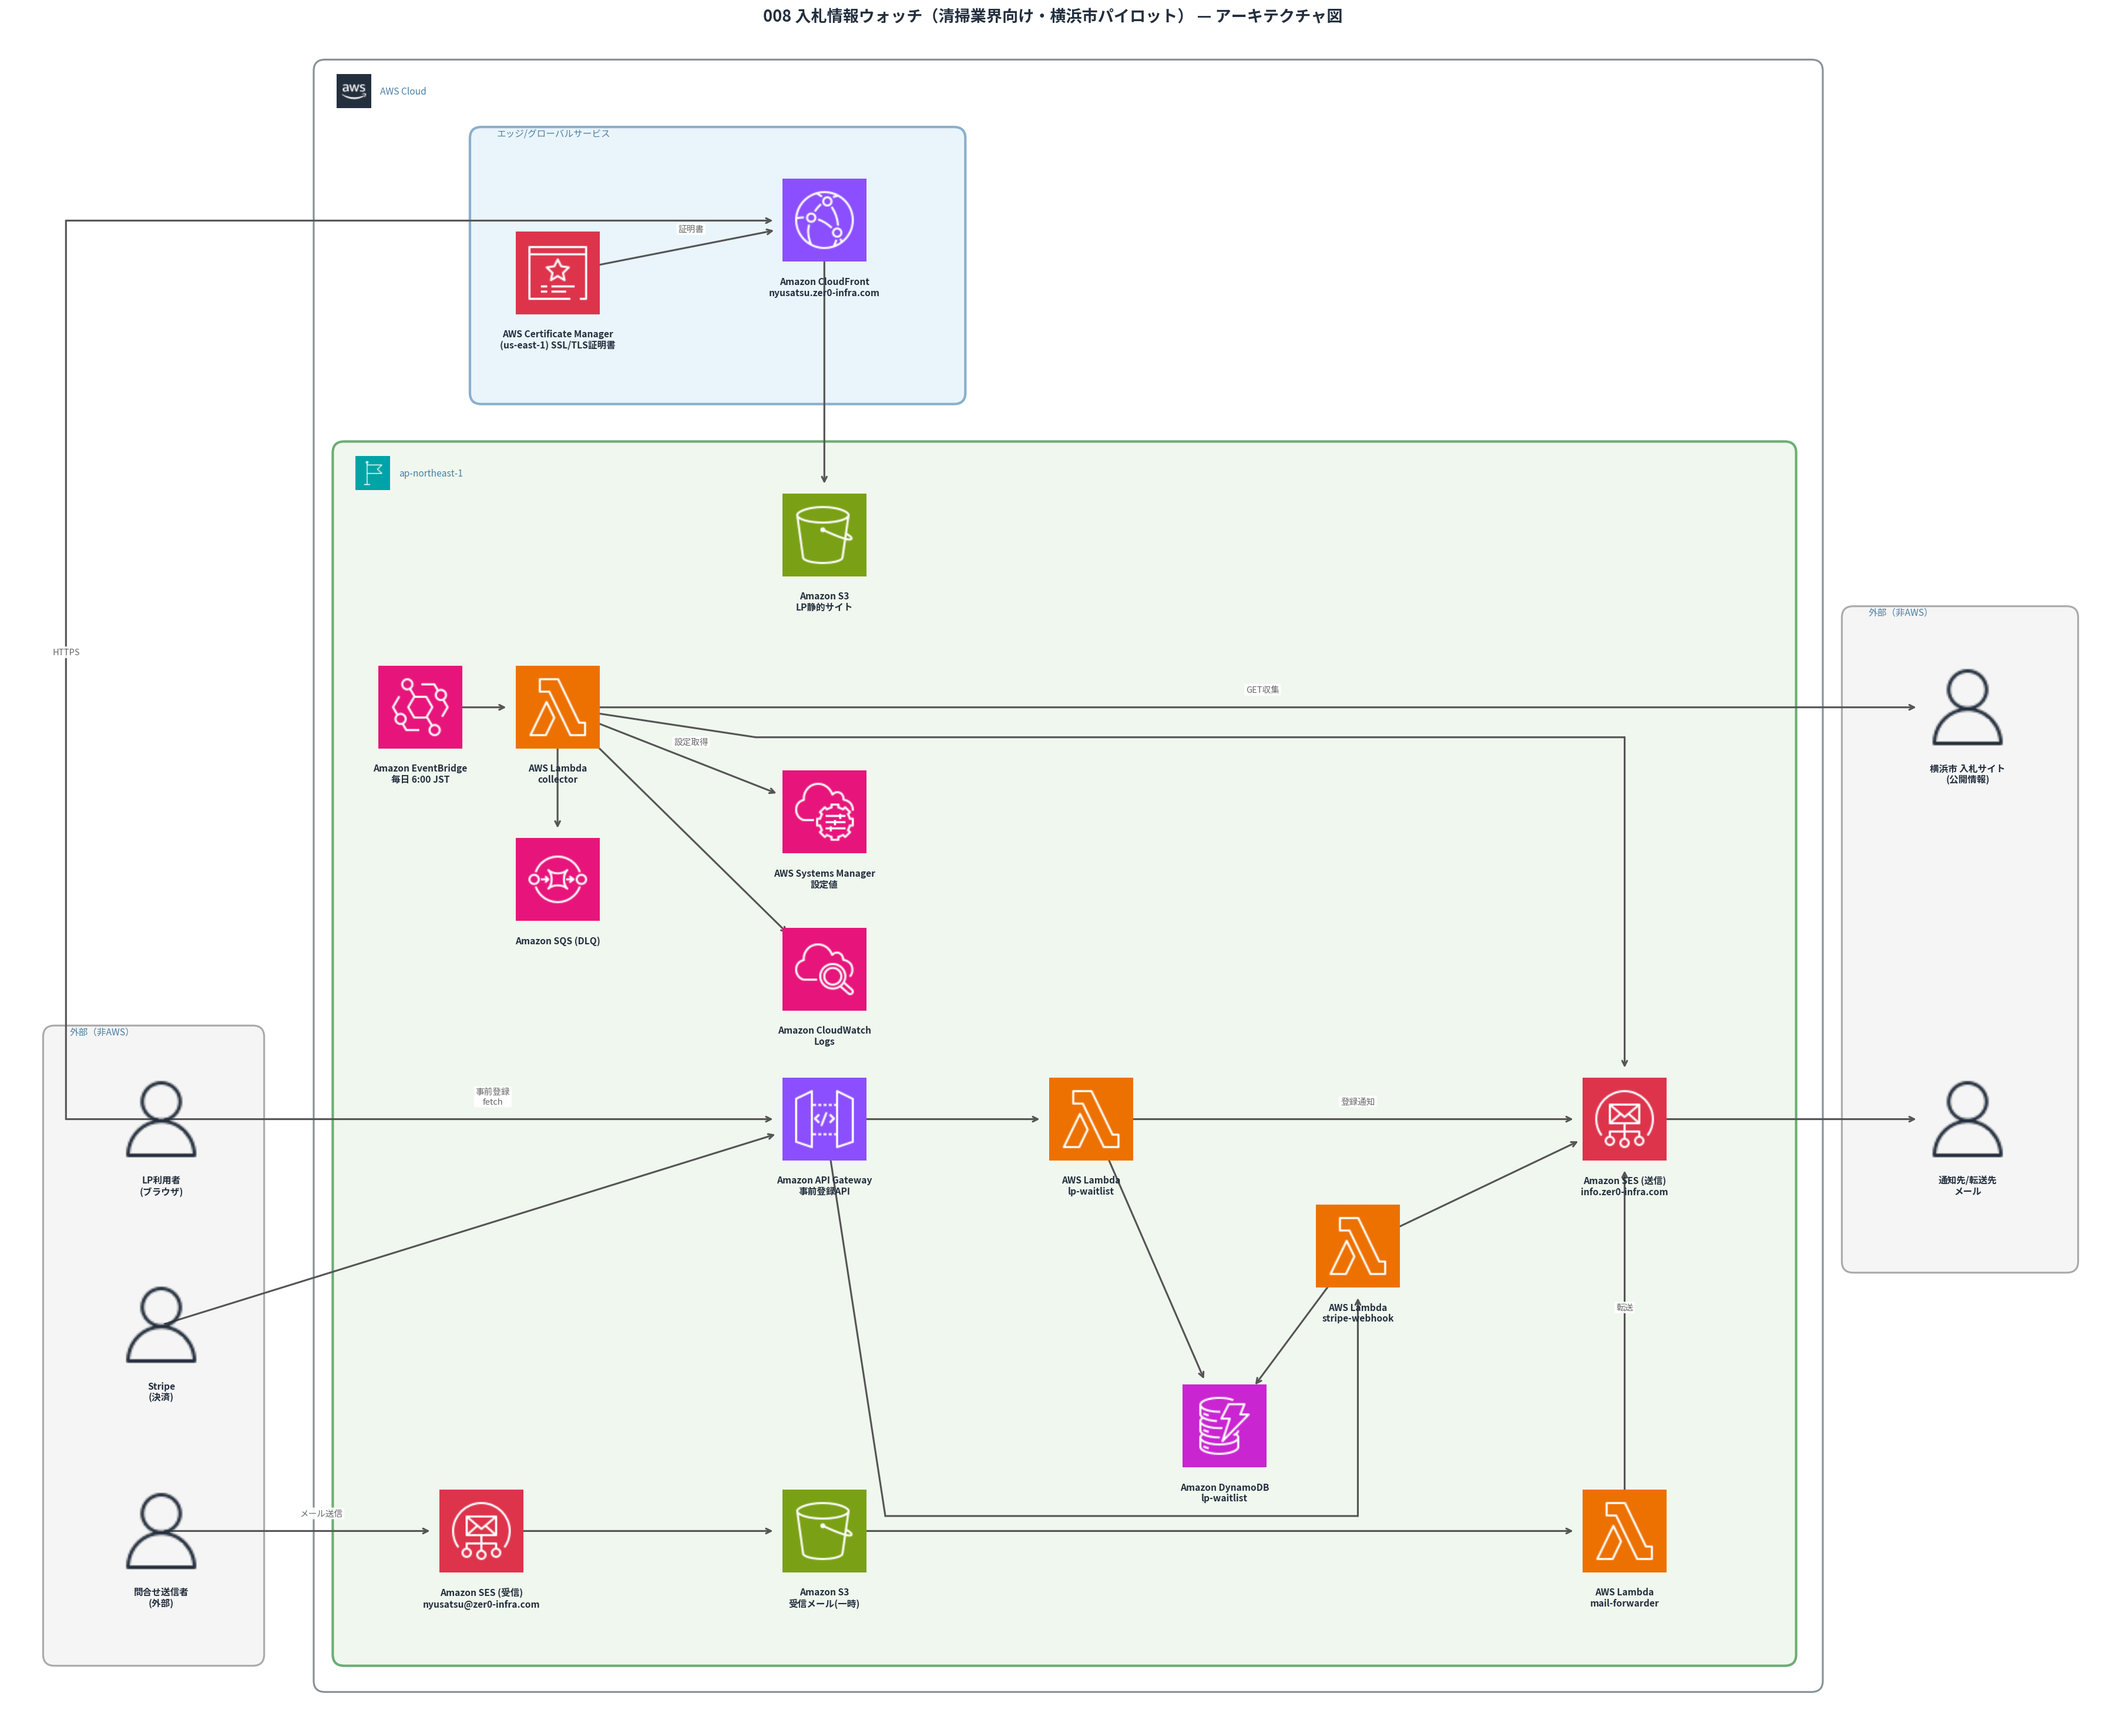
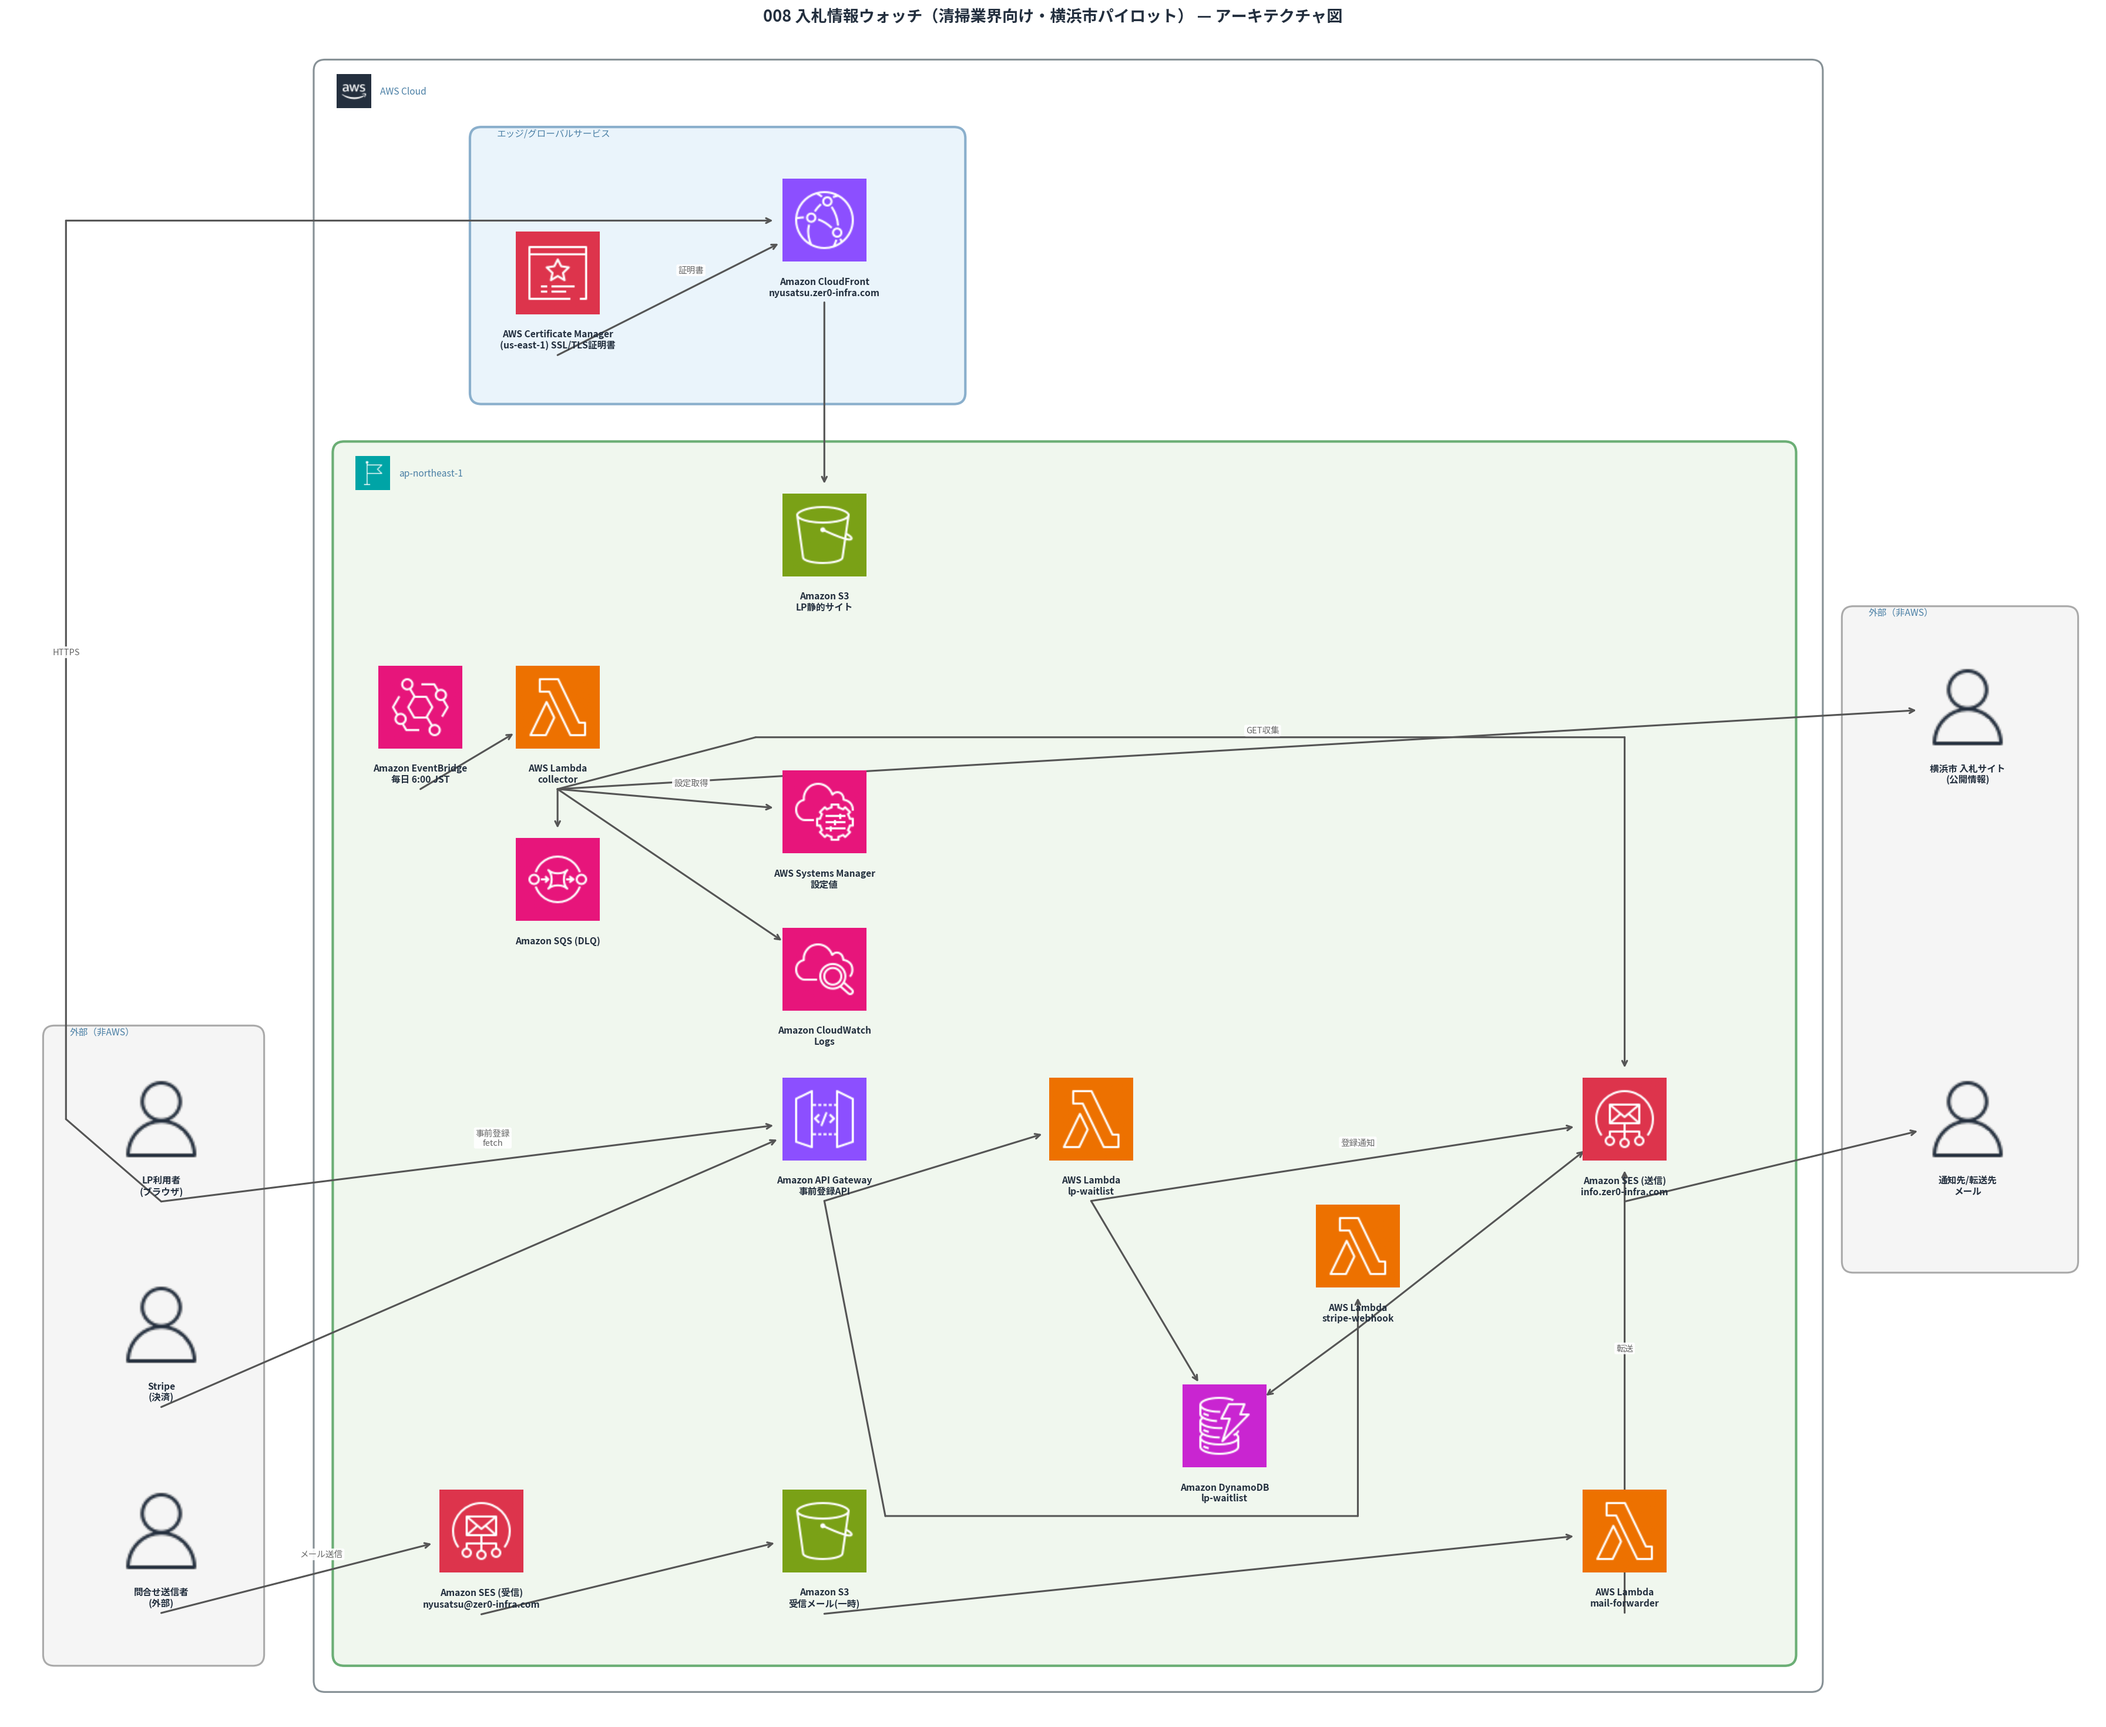
auto-sync: 2026-08-09 15:17

diff --git a/008_nyusatsu-notify-bot/scripts/generate_diagram.py b/008_nyusatsu-notify-bot/scripts/generate_diagram.py
@@ -279,20 +279,44 @@ def draw():
                 fontsize=7.5, color='#4A7FA5', style='italic', zorder=6)
 
     node_map = {n['id']: n for n in nodes}
-    # 矢印の始点はノードのアイコンではなく「ラベル文字から出ている」ように
-    # 見せたいため(2026-08-09、ユーザー指示)、出発側のshrinkAはアイコンの陰に
-    # 隠れる程度の最小値のみにする(アイコンはzorder=4で線のzorder=3より前面に
-    # あるため、アイコンの内側は自動的に隠れる)。到着側のshrinkBは矢頭を
-    # ノードの手前できれいに止めるため従来通り残す。
-    SHRINK_START = 3
+
+    # 矢印はノードのラベル文字の真下(下端)を始点にする(2026-08-09、ユーザー指示:
+    # 「文字の下から矢印を出せ」)。アイコン中心からのshrinkでは済まないため、
+    # 先にラベルを描画してmatplotlibのget_window_extent()で実際のラベル下端
+    # 座標を取得し、それを矢印の始点座標そのものとして使う。
+    ICON_SZ_ = HALF * 2
+    fig.canvas.draw()
+    renderer = fig.canvas.get_renderer()
+    inv = ax.transData.inverted()
+    label_bottom = {}
+    for n in nodes:
+        x, y = n['x'], n['y']
+        t = ax.text(x, y - HALF - 0.2, n['label'],
+                    ha='center', va='top', fontsize=7.5,
+                    color='#232F3E', fontweight='bold', zorder=4.5)
+        fig.canvas.draw()
+        bbox = t.get_window_extent(renderer=renderer)
+        (_, y0), (_, _) = inv.transform([(bbox.x0, bbox.y0), (bbox.x1, bbox.y1)])
+        label_bottom[n['id']] = y0
+
+    for n in nodes:
+        x, y = n['x'], n['y']
+        img = _load(n['icon'])
+        if img is not None:
+            ax.imshow(img, extent=[x - HALF, x + HALF, y - HALF, y + HALF],
+                      aspect='auto', zorder=4, interpolation='bilinear')
+
+    # 到着側のshrinkBは矢頭をノードの手前できれいに止めるため従来通り残す。
     SHRINK_END = 42
     for edge in edges:
         from_id, to_id = edge[0], edge[1]
         label = edge[2] if len(edge) > 2 else ''
         waypoints = edge[3] if len(edge) > 3 else []
         n1, n2 = node_map[from_id], node_map[to_id]
-        # 途中に経由点(waypoints)がある場合は直線区間を複数つなぎ、矢頭は最終区間のみに描く。
-        pts = [(n1['x'], n1['y'])] + waypoints + [(n2['x'], n2['y'])]
+        # 始点はラベル文字の下端(label_bottom)。ラベルは横方向にノード中心から
+        # 左右対称に広がるため、始点のx座標はノード中心のままでよい。
+        start_pt = (n1['x'], label_bottom[from_id])
+        pts = [start_pt] + waypoints + [(n2['x'], n2['y'])]
         n_seg = len(pts) - 1
         for i in range(n_seg):
             ax.annotate(
@@ -300,7 +324,7 @@ def draw():
                 arrowprops=dict(
                     arrowstyle='->' if i == n_seg - 1 else '-',
                     color='#555555', lw=1.5,
-                    shrinkA=SHRINK_START if i == 0 else 0,
+                    shrinkA=0,
                     shrinkB=SHRINK_END if i == n_seg - 1 else 0,
                     connectionstyle='arc3,rad=0.0',
                 ),
@@ -316,16 +340,6 @@ def draw():
                     bbox=dict(boxstyle='round,pad=0.2', facecolor='white',
                               edgecolor='none', alpha=0.9),
                     zorder=5)
-
-    for n in nodes:
-        x, y = n['x'], n['y']
-        img = _load(n['icon'])
-        if img is not None:
-            ax.imshow(img, extent=[x - HALF, x + HALF, y - HALF, y + HALF],
-                      aspect='auto', zorder=4, interpolation='bilinear')
-        ax.text(x, y - HALF - 0.2, n['label'],
-                ha='center', va='top', fontsize=7.5,
-                color='#232F3E', fontweight='bold', zorder=4.5)
 
     out = os.path.join(_BASE, 'images', '008_architecture.png')
     plt.tight_layout()
